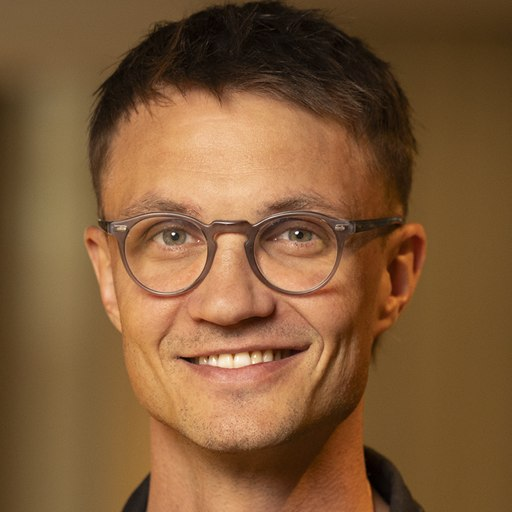
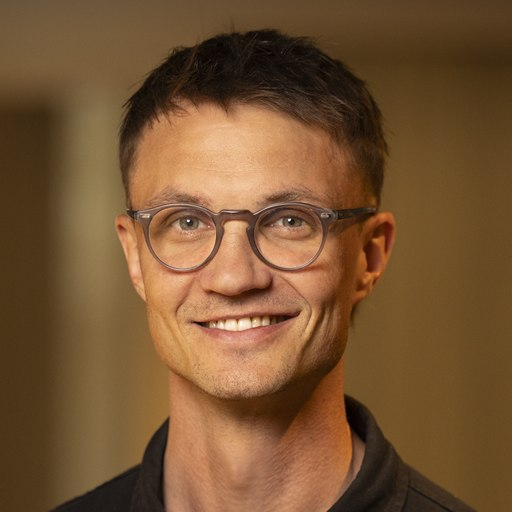
Vercel Analytics; links to other sites open in a new tab; Atli's photo recropped
- Vercel Web Analytics (@vercel/analytics) in the base layout, on every page
- Links in article text to other sites and to /skjol/ open in a new tab,
  with a hidden note for screen readers (ArticleLink, passed as `a` to the
  MDX content); links within the site stay in the tab
- The header's Almannarómur.is link opens in a new tab
- Atli Þór Jóhannsson's photo: recropped from the original to match the
  other authors' framing

diff --git a/CLAUDE.md b/CLAUDE.md
@@ -34,6 +34,7 @@ Consult these guides before working on related tasks:
 - A draft never breaks the build: components show a notice in drafts (`Astro.locals.articleDraft`). Links to other articles (Sjá einnig, `tengt`) quietly leave out drafts and missing targets in published articles; missing data components (Einkunnatafla) still fail a published build.
 - Sources: when `slod` is empty, URLs in `texti` are linked (`sourceHtml` in `src/pages/greinar/[slug].astro`), so one source can cite several pages. All source links open in a new tab (with a hidden „(opnast í nýjum flipa)“ for screen readers). Documents cited as sources (PDFs) live in `public/skjol/` and are linked by path, e.g. `slod: /skjol/<file>.pdf`; they open in the browser, not as a download. Author `role` is optional.
 - `Fv*` components (`src/components/content/fullveldi/`) are the figures and cards of `hvad-er-gervigreindarfullveldi` (article-specific; labelled "Fullveldi: …" in the editor). Its recurring "thread" (three numbered lines) has its labels, pillar names and the still-open line 3 label in `fullveldi/thread.ts`; the article's mark (empty, half and full circle) is the `circles` box icon in `src/lib/icons.ts`, drawn by `FvCircles`. Hanging numerals use the margin only at 64rem and up.
+- Links in article text go through `src/components/ArticleLink.astro` (passed as `a` to the MDX content in `src/pages/greinar/[slug].astro`): links to other sites and to `/skjol/` open in a new tab with a hidden „(opnast í nýjum flipa)“; links within the site (articles, /sjalfsmat, anchors) stay in the tab. The header's Almannarómur.is link opens in a new tab too.
 - `Disclosure` (e.g. "Hagsmunir") renders nothing while empty, so it can sit in an article before its text exists.
 - The self-assessment (`SelfAssessment.astro`, text in `src/data/sjalfsmat.ts`) is also the page `/sjalfsmat`, which follows the EU AI Act article's draft status (noindex + left out of the sitemap in `astro.config.mjs`).
 - Design tokens in `src/styles/tokens.css` come from the Figma design system ("Vefskýrsla Sept"). Figma exports live in `design/` (git-ignored).
